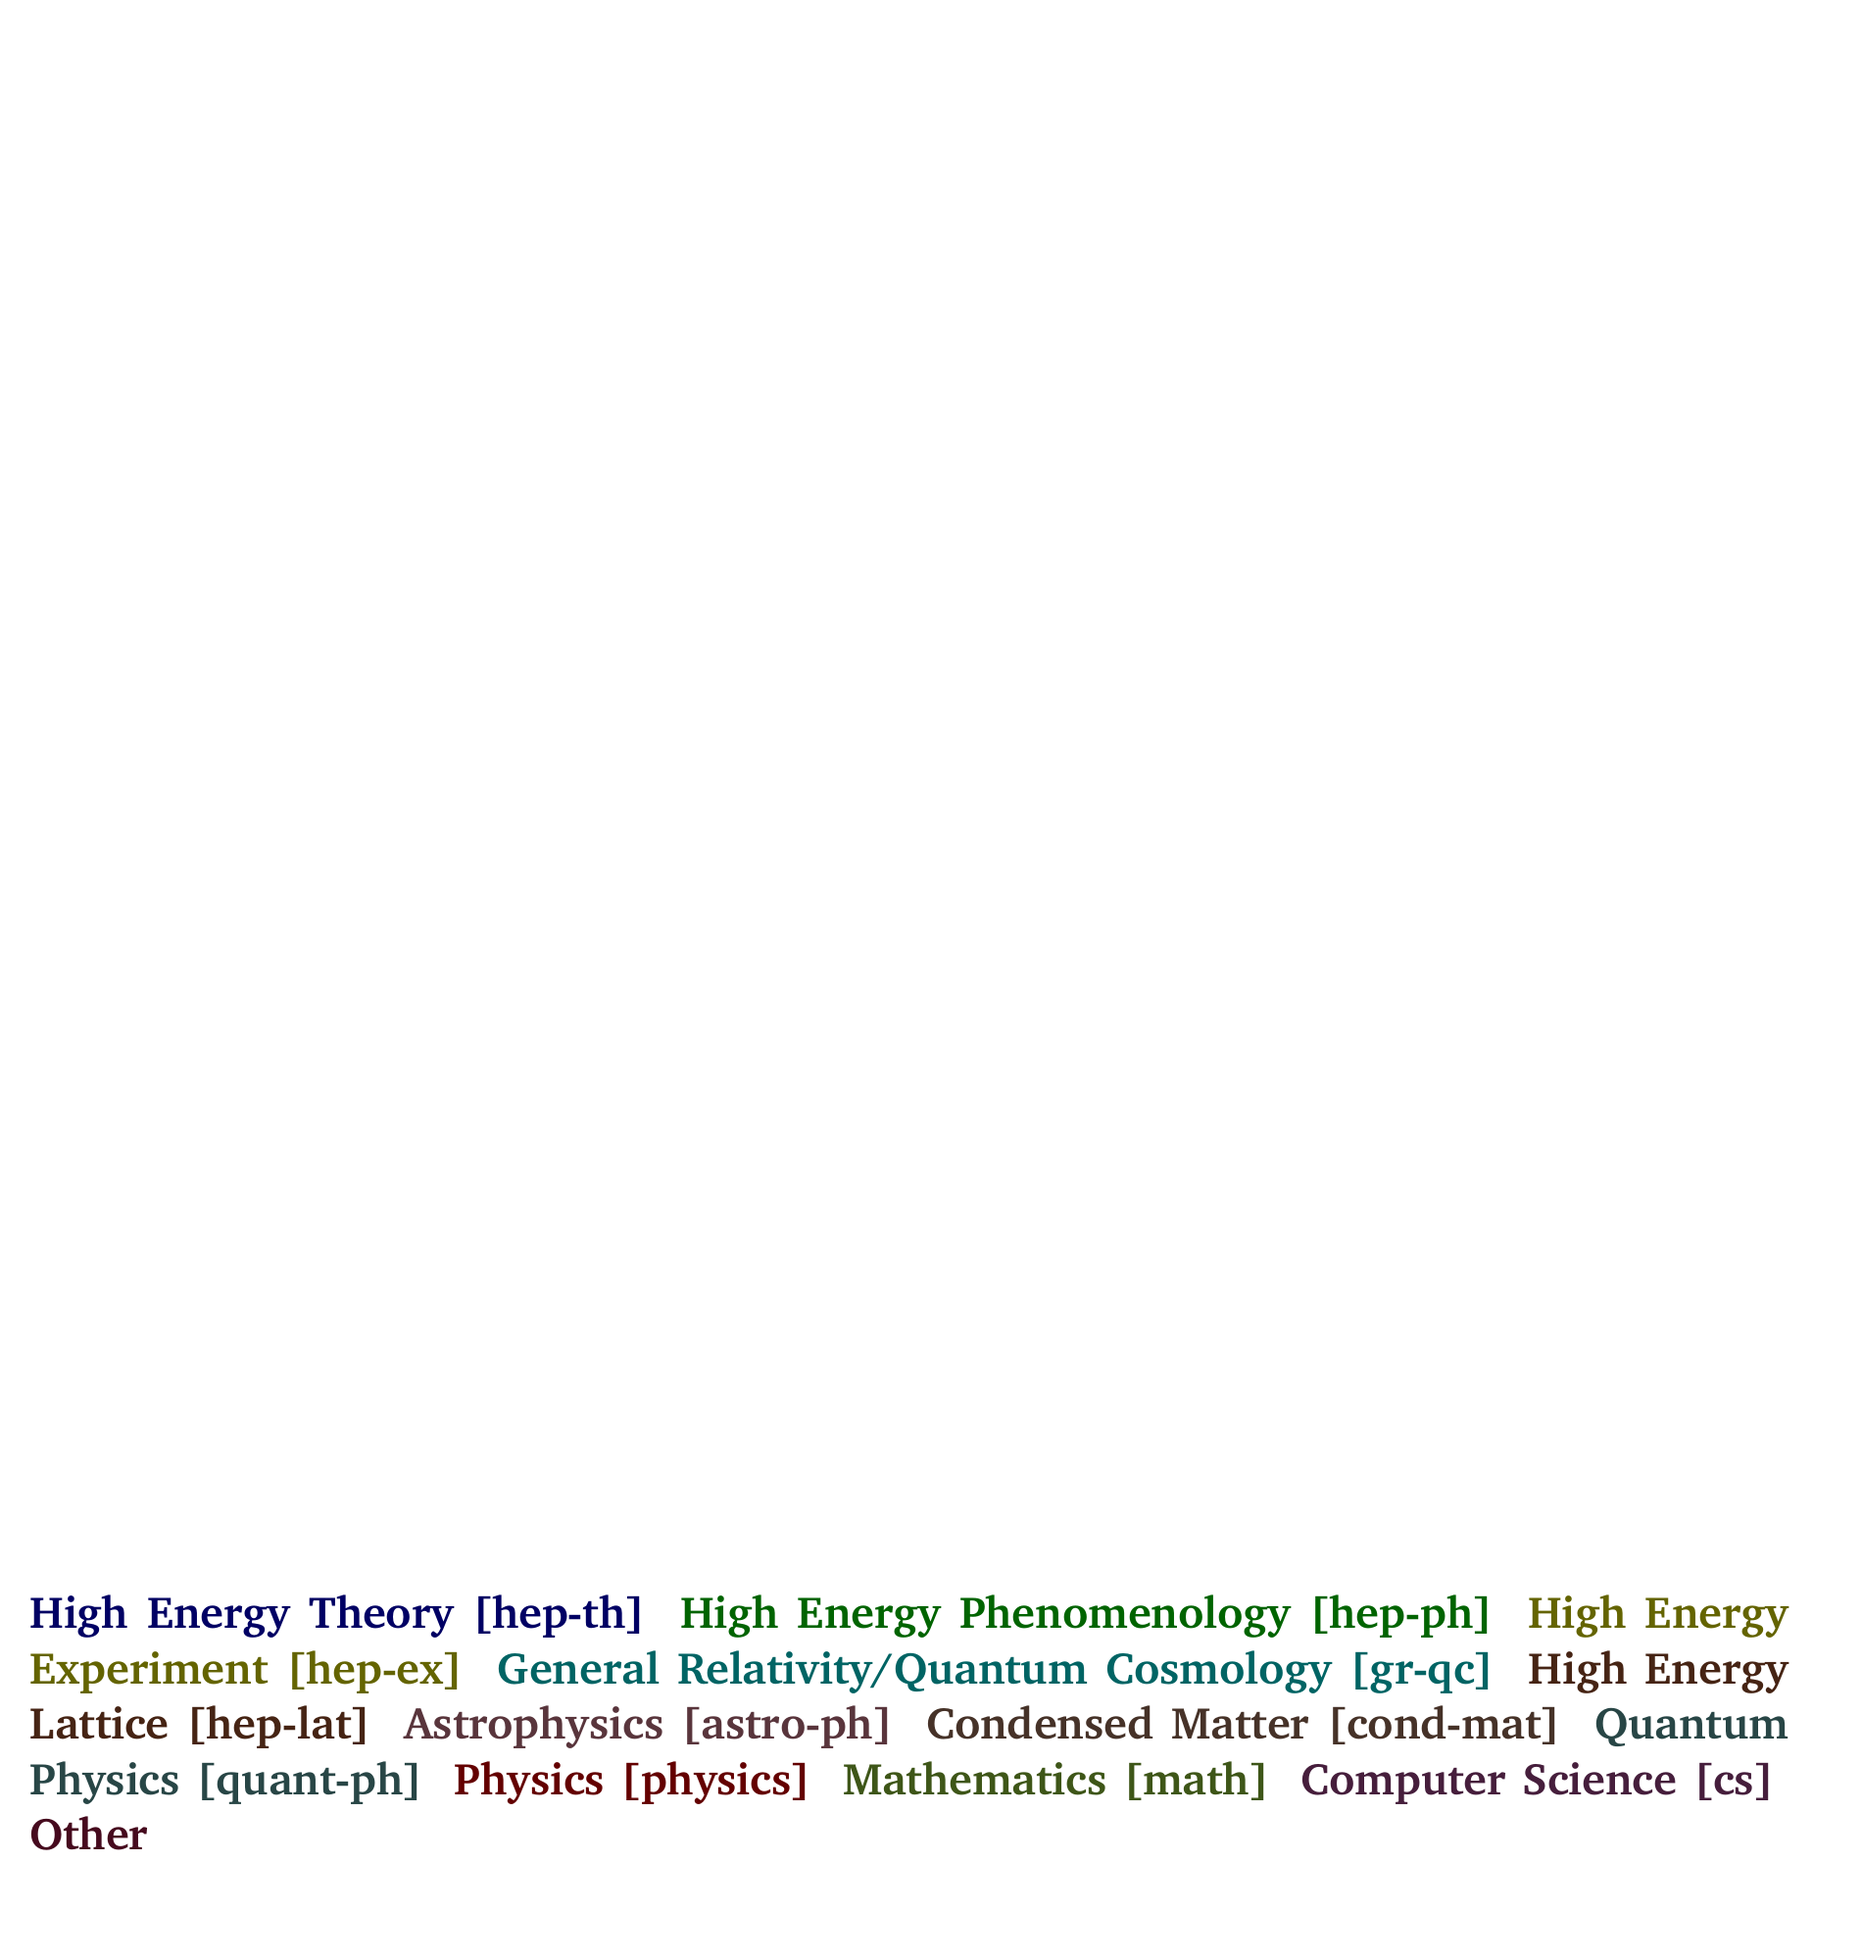
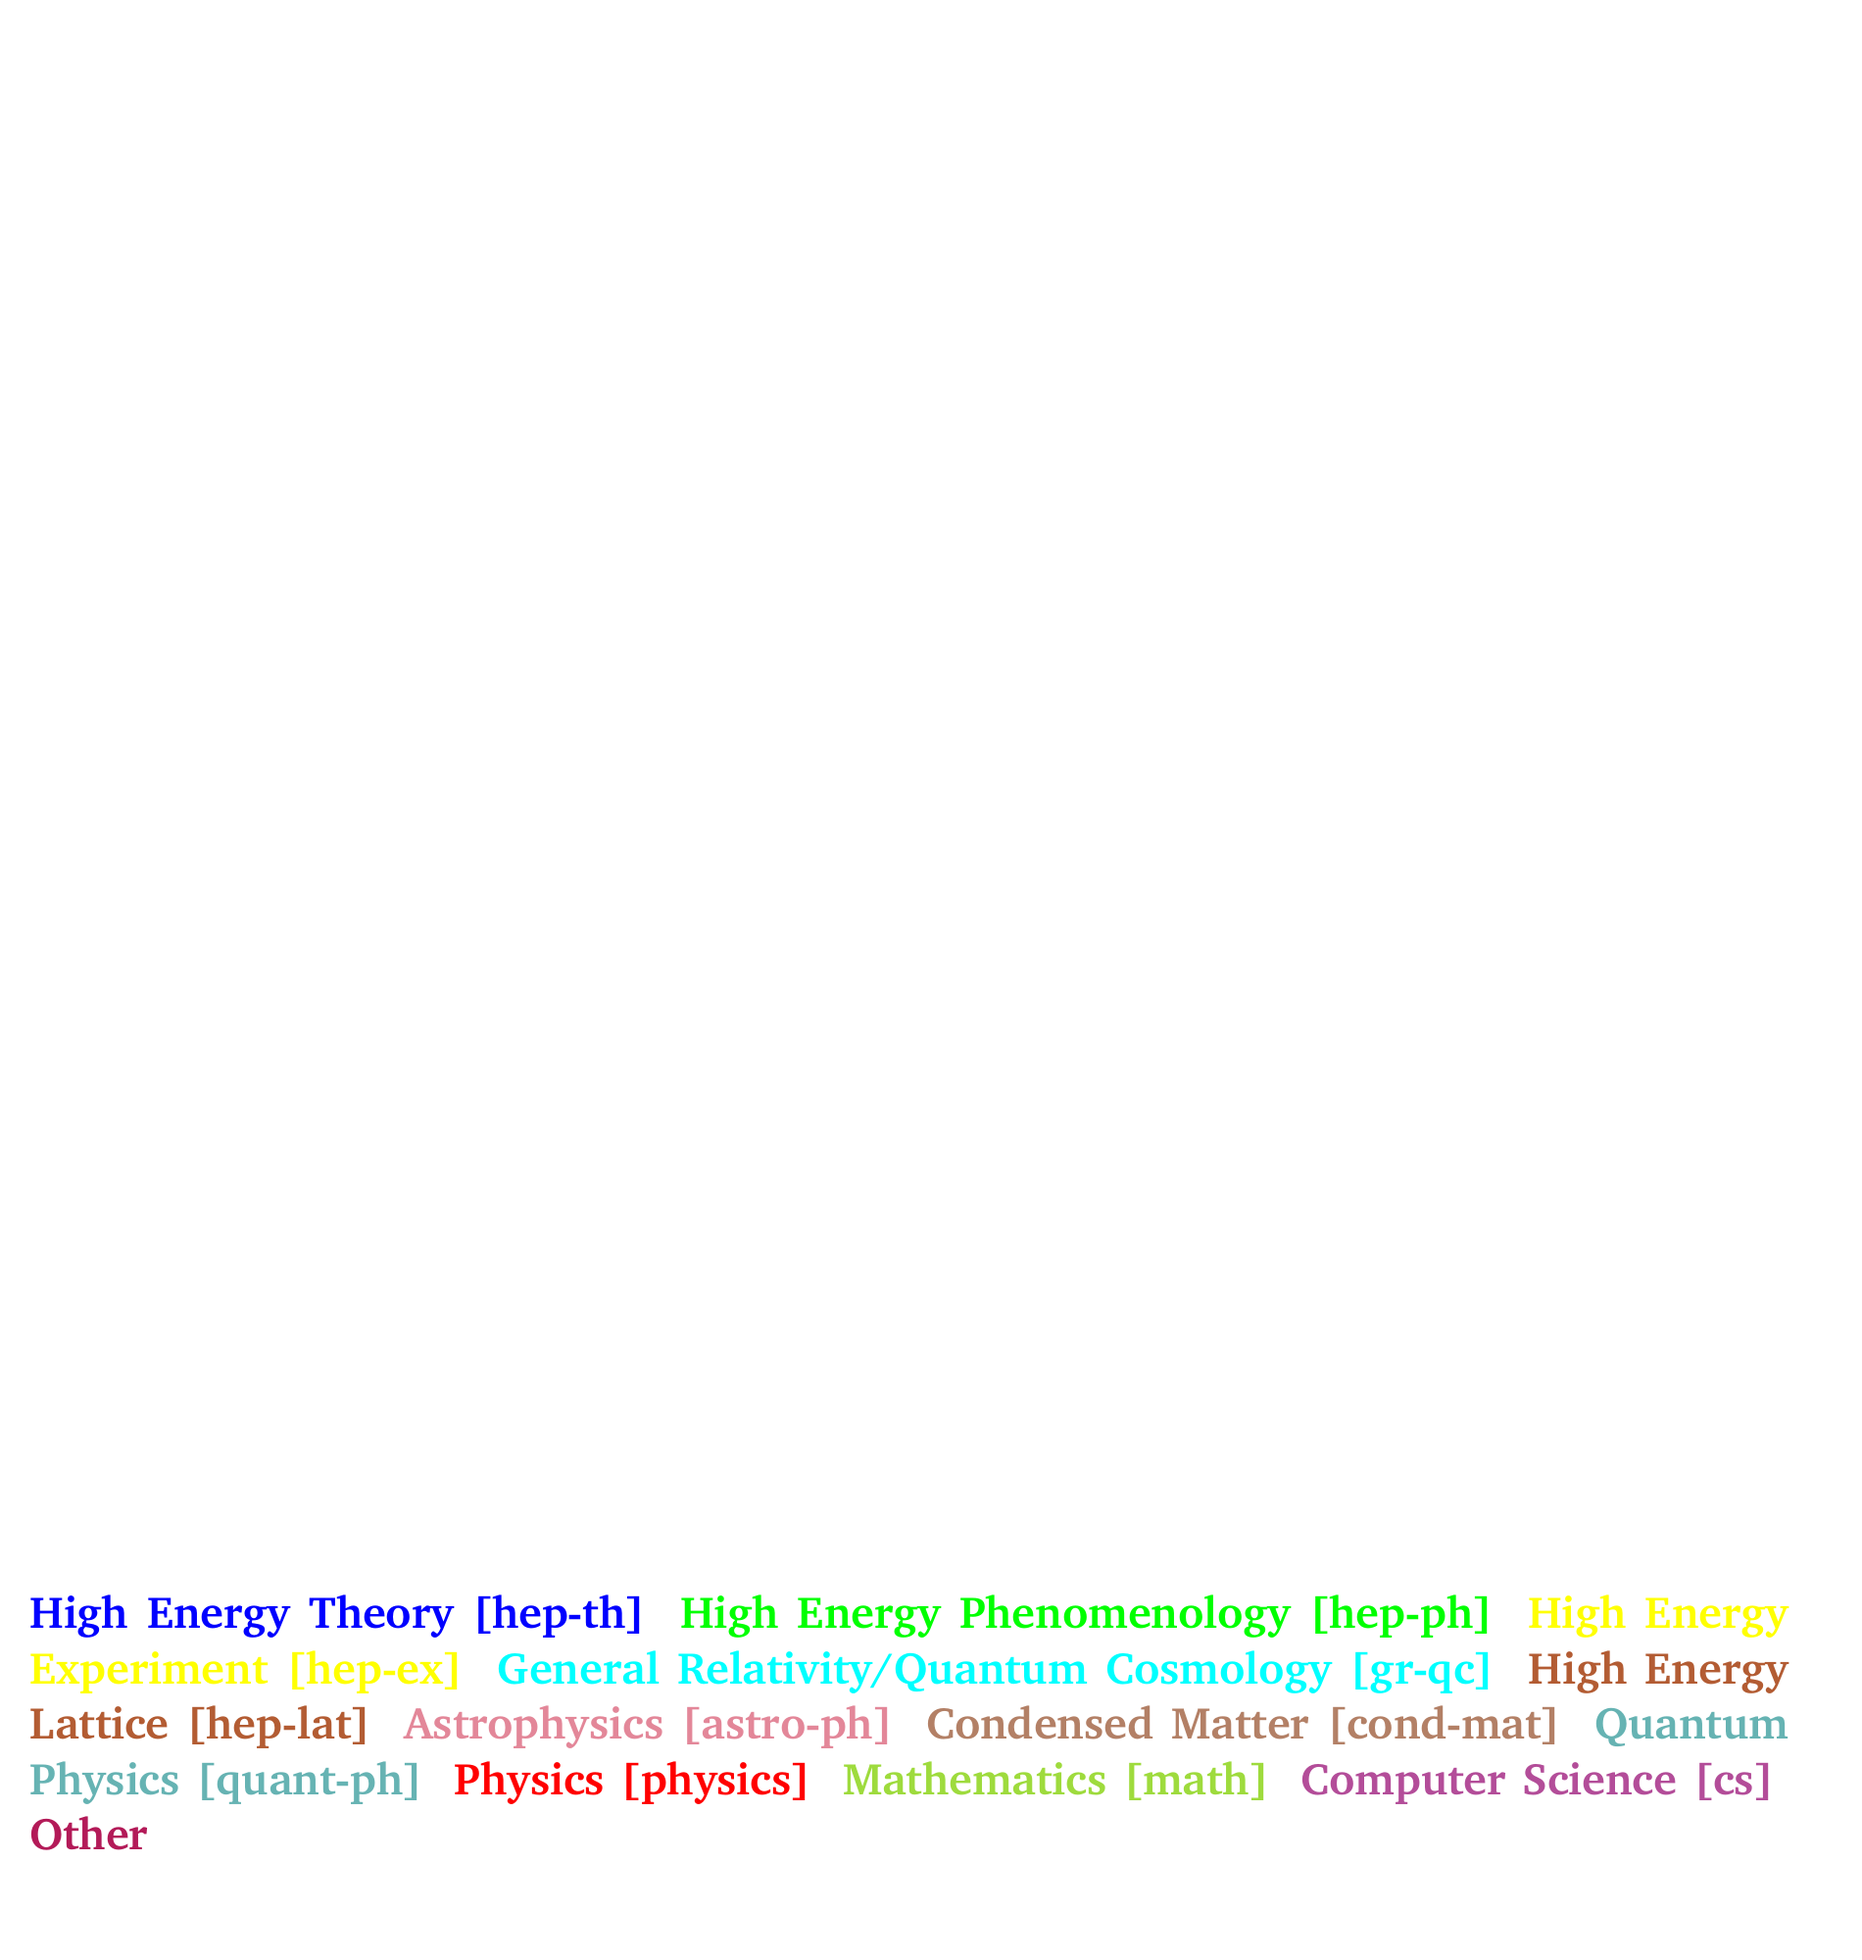
Removed old version of go-cairo. Brighter colours on poster

Changed region(s): [[0.0, 0.806, 0.9626, 0.961]]

diff --git a/tiles/postertext.tex b/tiles/postertext.tex
@@ -61,17 +61,17 @@ Currently some categories (noticeably hep-th and hep-ph) have better reference e
 %We are working on improving the reference extraction.
 
 {\bf Colour coding:}\\
-{\bf\color[RGB]{0,0,100} High Energy Theory [hep-th]};
-{\bf\color[RGB]{0,100,0} High Energy Phenomenology [hep-ph]}; 
-{\bf\color[RGB]{100,100,0} High Energy Experiment [hep-ex]};
-{\bf\color[RGB]{0,100,100} General Relativity/Quantum Cosmology [gr-qc]};
-{\bf\color[RGB]{70,36,20} High Energy Lattice [hep-lat]};
-{\bf\color[RGB]{89,53,60} Astrophysics [astro-ph]};
-{\bf\color[RGB]{70,50,40} Condensed Matter [cond-mat]};
-{\bf\color[RGB]{40,70,70} Quantum Physics [quant-ph]};
-{\bf\color[RGB]{100,0,0} Physics [physics]};
-{\bf\color[RGB]{62,86,24} Mathematics [math]};
-{\bf\color[RGB]{70,30,60} Computer Science [cs]};
-{\bf\color[RGB]{70,10,30} Other}
+{\bf\color[RGB]{0,0,255} High Energy Theory [hep-th]};
+{\bf\color[RGB]{0,255,0} High Energy Phenomenology [hep-ph]}; 
+{\bf\color[RGB]{255,255,0} High Energy Experiment [hep-ex]};
+{\bf\color[RGB]{0,255,255} General Relativity/Quantum Cosmology [gr-qc]};
+{\bf\color[RGB]{179,92,51} High Energy Lattice [hep-lat]};
+{\bf\color[RGB]{227,135,153} Astrophysics [astro-ph]};
+{\bf\color[RGB]{179,128,102} Condensed Matter [cond-mat]};
+{\bf\color[RGB]{102,179,179} Quantum Physics [quant-ph]};
+{\bf\color[RGB]{255,0,0} Physics [physics]};
+{\bf\color[RGB]{158,219,61} Mathematics [math]};
+{\bf\color[RGB]{179,77,153} Computer Science [cs]};
+{\bf\color[RGB]{179,26,88} Other}
 
 \end{document}
